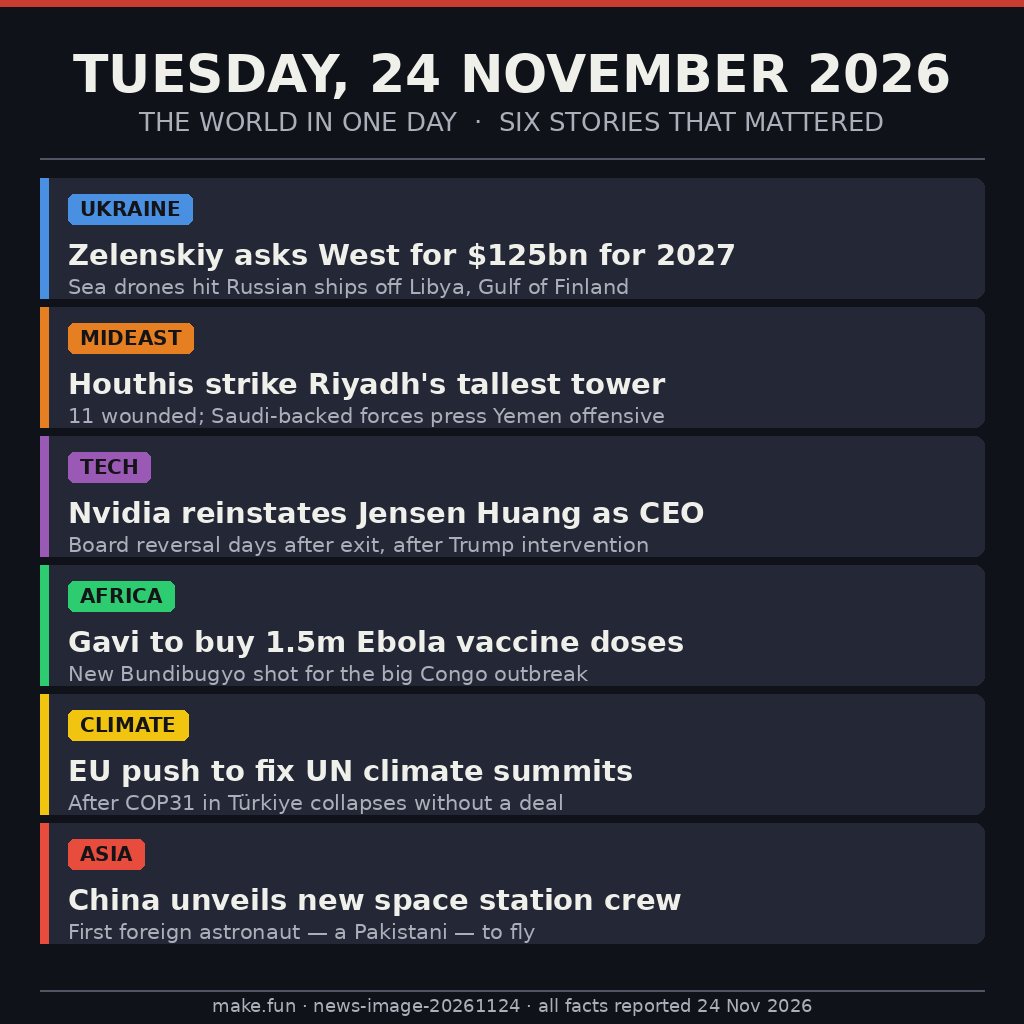
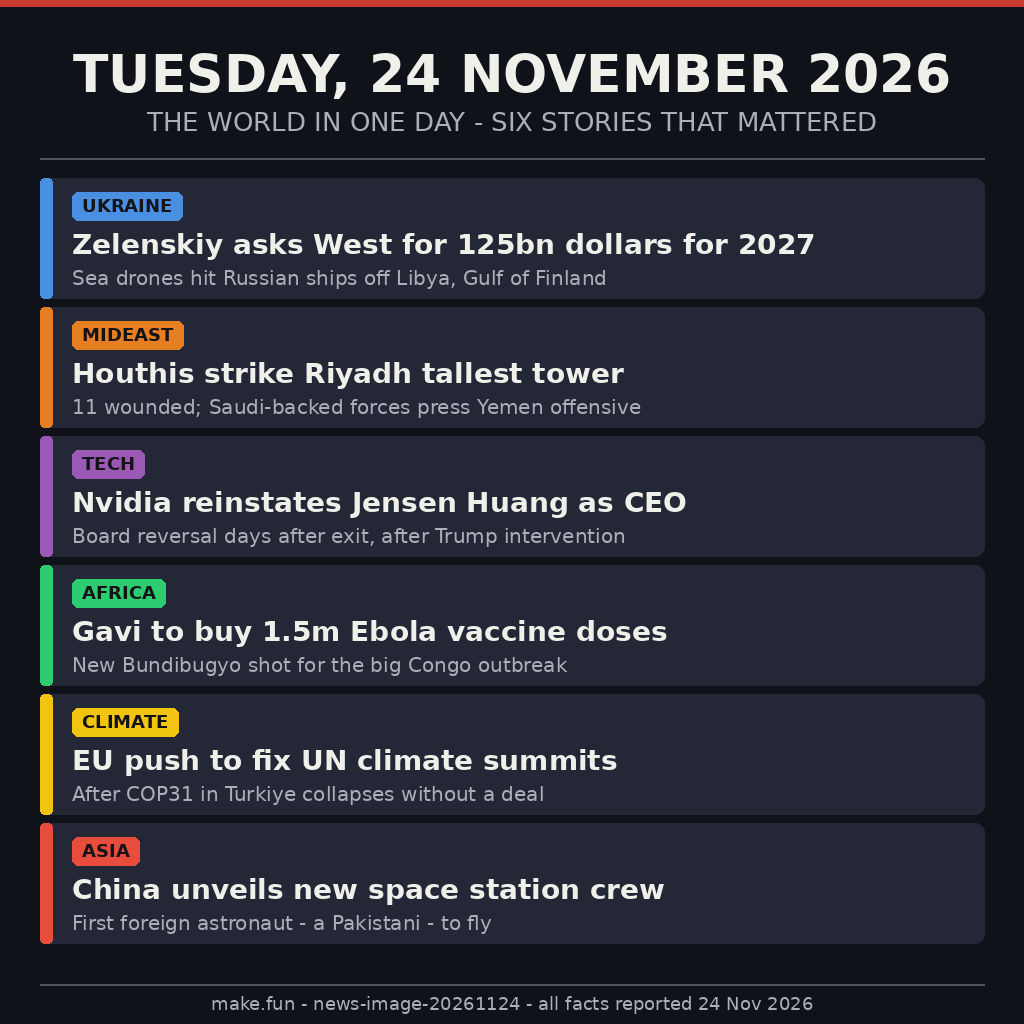
Agent-authored make_image.py and entry.png

Changed region(s): [[0.0312, 0.3125, 0.9375, 1.0], [0.0312, 0.1875, 0.8125, 0.3125], [0.125, 0.0938, 0.875, 0.125]]

diff --git a/make_image.py b/make_image.py
@@ -17,23 +17,23 @@ def F(name, size):
 
 f_mast = F("DejaVuSans-Bold.ttf", 52)
 f_sub = F("DejaVuSans.ttf", 26)
-f_tag = F("DejaVuSans-Bold.ttf", 20)
-f_head = F("DejaVuSans-Bold.ttf", 29)
-f_body = F("DejaVuSans.ttf", 21)
+f_tag = F("DejaVuSans-Bold.ttf", 18)
+f_head = F("DejaVuSans-Bold.ttf", 28)
+f_body = F("DejaVuSans.ttf", 20)
 
 STORIES = [
-    ("UKRAINE", (74, 144, 226), "Zelenskiy asks West for $125bn for 2027",
+    ("UKRAINE", (74, 144, 226), "Zelenskiy asks West for 125bn dollars for 2027",
      "Sea drones hit Russian ships off Libya, Gulf of Finland"),
-    ("MIDEAST", (230, 126, 34), "Houthis strike Riyadh's tallest tower",
+    ("MIDEAST", (230, 126, 34), "Houthis strike Riyadh tallest tower",
      "11 wounded; Saudi-backed forces press Yemen offensive"),
     ("TECH", (155, 89, 182), "Nvidia reinstates Jensen Huang as CEO",
      "Board reversal days after exit, after Trump intervention"),
     ("AFRICA", (46, 204, 113), "Gavi to buy 1.5m Ebola vaccine doses",
      "New Bundibugyo shot for the big Congo outbreak"),
     ("CLIMATE", (241, 196, 15), "EU push to fix UN climate summits",
-     "After COP31 in Türkiye collapses without a deal"),
+     "After COP31 in Turkiye collapses without a deal"),
     ("ASIA", (231, 76, 60), "China unveils new space station crew",
-     "First foreign astronaut — a Pakistani — to fly"),
+     "First foreign astronaut - a Pakistani - to fly"),
 ]
 
 def wrap(d, text, font, maxw):
@@ -51,10 +51,11 @@ def wrap(d, text, font, maxw):
 
 img = Image.new("RGB", (W, H), BG)
 d = ImageDraw.Draw(img)
-# top rule + masthead
+
+# Top rule + masthead
 d.rectangle([0, 0, W, 6], fill=(200, 60, 50))
 d.text((W // 2, 74), "TUESDAY, 24 NOVEMBER 2026", font=f_mast, fill=FG, anchor="mm")
-d.text((W // 2, 122), "THE WORLD IN ONE DAY  ·  SIX STORIES THAT MATTERED", font=f_sub, fill=DIM, anchor="mm")
+d.text((W // 2, 122), "THE WORLD IN ONE DAY - SIX STORIES THAT MATTERED", font=f_sub, fill=DIM, anchor="mm")
 d.line([40, 158, W - 40, 158], fill=(80, 85, 100), width=2)
 
 top = 178
@@ -62,19 +63,39 @@ ch = 120  # card height
 gap = 9
 for i, (tag, color, head, body) in enumerate(STORIES):
     y = top + i * (ch + gap)
+    # Card background
     d.rounded_rectangle([40, y, W - 40, y + ch], radius=10, fill=CARD)
-    d.rectangle([40, y, 48, y + ch], fill=color)
+    # Colored left edge per card
+    d.rounded_rectangle([40, y, 52, y + ch], radius=4, fill=color)
+    
+    # Region tag chip
     tw = d.textlength(tag, font=f_tag)
-    d.rounded_rectangle([68, y + 16, 68 + tw + 24, y + 46], radius=6, fill=color)
-    d.text((80, y + 31), tag, font=f_tag, fill=(20, 20, 24), anchor="lm")
-    hl = wrap(d, head, f_head, W - 200)
+    chip_w = tw + 20
+    chip_h = 28
+    chip_x = 72
+    chip_y = y + 14
+    d.rounded_rectangle([chip_x, chip_y, chip_x + chip_w, chip_y + chip_h], radius=6, fill=color)
+    d.text((chip_x + 10, chip_y + 14), tag, font=f_tag, fill=(20, 20, 24), anchor="lm")
+    
+    # Headline and sub-line positioning inside card bounds
+    # Max width for text: W - 40 (left margin) - 40 (right margin) - padding ~ left 72 -> right max ~ 984 -> max width ~ 900
+    maxw = W - 140
+    hl = wrap(d, head, f_head, maxw)
+    
+    # Draw headline (bold white, >=28px)
+    text_y = y + 50
     for j, ln in enumerate(hl):
-        d.text((68, y + 60 + j * 33), ln, font=f_head, fill=FG)
-    bl = wrap(d, body, f_body, W - 200)
-    d.text((68, y + 60 + len(hl) * 33 + 3), bl[0], font=f_body, fill=DIM)
+        d.text((72, text_y + j * 32), ln, font=f_head, fill=FG)
+    
+    # Draw one dim gray sub-line
+    sub_y = text_y + len(hl) * 32 + 6
+    bl = wrap(d, body, f_body, maxw)
+    if bl:
+        d.text((72, sub_y), bl[0], font=f_body, fill=DIM)
 
-d.line([40, H - 34, W - 40, H - 34], fill=(80, 85, 100), width=2)
-d.text((W // 2, H - 18), "make.fun · news-image-20261124 · all facts reported 24 Nov 2026", font=F("DejaVuSans.ttf", 18), fill=DIM, anchor="mm")
+# Footer
+d.line([40, H - 40, W - 40, H - 40], fill=(80, 85, 100), width=2)
+d.text((W // 2, H - 20), "make.fun - news-image-20261124 - all facts reported 24 Nov 2026", font=F("DejaVuSans.ttf", 18), fill=DIM, anchor="mm")
 
 img.save("entry.png", optimize=True)
 print("saved", os.path.getsize("entry.png"), "bytes")
